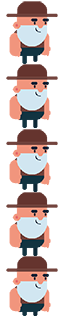
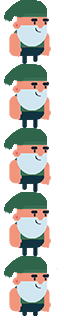
💄 Modified assets and implemented speed item

diff --git a/src/js/play-scene.js b/src/js/play-scene.js
@@ -41,6 +41,16 @@ class PlayScene extends Phaser.Scene {
         this.player.setBounce(0.1);
         this.player.setCollideWorldBounds(true);
 
+        this.speedItem = this.physics.add.group({
+            key: 'speedItem',
+            repeat: 3,
+            setXY: { 
+                x: 0, 
+                y: 0,
+                stepX: 300
+            }
+        });
+        
         // skapa en fysik-grupp
         this.spikes = this.physics.add.group({
             allowGravity: false,
@@ -71,8 +81,9 @@ class PlayScene extends Phaser.Scene {
             this
         );
 
-        // krocka med platforms lagret
+        // Colliders
         this.physics.add.collider(this.player, this.platforms);
+        this.physics.add.collider(this.speedItem, this.platforms);
 
         // skapa text på spelet, texten är tom
         // textens innehåll sätts med updateText() metoden
@@ -172,6 +183,7 @@ class PlayScene extends Phaser.Scene {
 
     // när vi skapar scenen så körs initAnims för att ladda spelarens animationer
     initAnims() {
+
         this.anims.create({
             key: 'walk',
             frames: this.anims.generateFrameNames('player', {

diff --git a/src/js/preload-scene.js b/src/js/preload-scene.js
@@ -8,6 +8,7 @@ class PreloadScene extends Phaser.Scene {
         this.load.setBaseURL('/assets');
         this.load.image('background', '/images/background.png');
         this.load.image('spike', '/images/spike.png');
+        this.load.image('speedItem', '/images/hotchocolate.png');
         this.load.atlas(
             'player',
             '/images/jefrens_hero.png',

diff --git a/planering.md b/planering.md
@@ -1,0 +1,4 @@
+### Todo
+- [] Kamera som följer 
+- [] Automatisk rörelse åt höger
+- [] Plattformar
